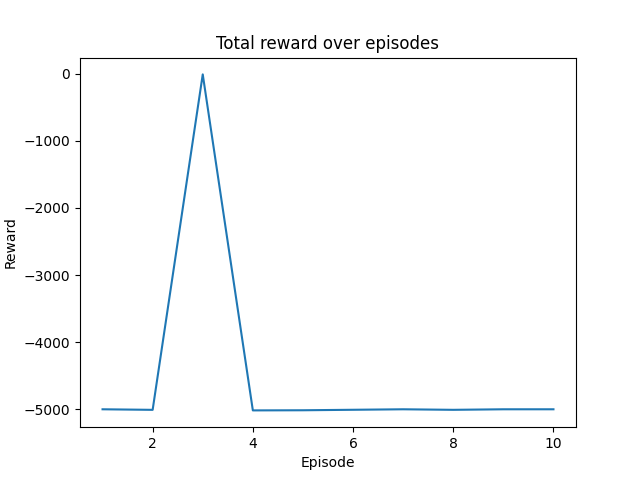
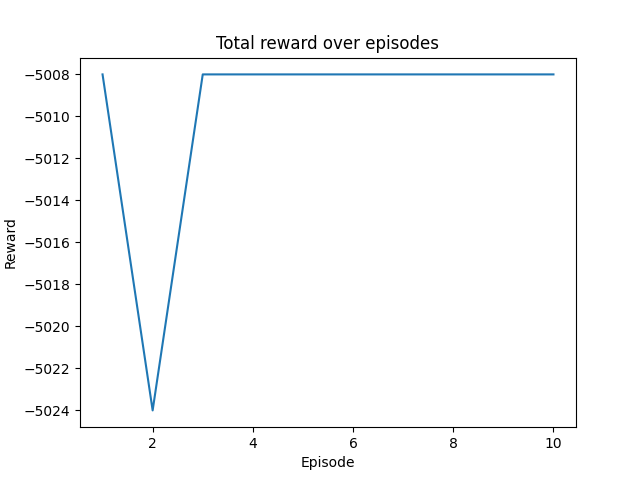
Start on DQN

diff --git a/main.py b/main.py
@@ -20,7 +20,7 @@ def run_episode(episode_num:int,environment:CTP_environment.CTP,subkey:jax.rando
         key,subkey=jax.random.split(subkey)
         #Loop over agents to get agents' actions and combine together into a joint action
         # Use observation to get the action
-        action = agent.act(state,observation,subkey)
+        action = agent.act(subkey,state,observation)
         observation, state, current_reward, terminate = environment.step(state,jnp.array(action))
         cumulative_reward += current_reward
         # Assign observation and position to each agent
@@ -31,14 +31,7 @@ def run_episode(episode_num:int,environment:CTP_environment.CTP,subkey:jax.rando
     initial_loop_vars = (observation,state,terminate,cumulative_reward, action_sequence,subkey)
     def run_step(loop_vars):
         observation, state, terminate, cumulative_reward, action_sequence, subkey = loop_vars
-        key,subkey=jax.random.split(subkey)
-        #Loop over agents to get agents' actions and combine together into a joint action
-        # Use observation to get the action
-        action = environment.action_spaces.sample(subkey)
-        observation, state, current_reward, terminate = environment.step(state,jnp.array(action))
-        cumulative_reward += current_reward
-        # Assign observation and position to each agent
-        action_sequence = jnp.concatenate([action_sequence, jnp.array(action)])
+        #...the rest of the code in the while loop
         return observation, state, terminate, cumulative_reward, action_sequence, subkey
 
     def condition(loop_vars):
@@ -59,7 +52,7 @@ if __name__ == "__main__":
     parser.add_argument('--n_node', type=int, help='Number of nodes in the graph', required=False, default=5)
     parser.add_argument('--n_agent', type=int, help='Number of agents in the environment', required=False, default=1)
     parser.add_argument('--n_episode', type=int, help='Number of episodes to run', required=False, default=10)
-    parser.add_argument('--agent_algorithm',type=str,help='Random, DQN',required=False,default='Random')
+    parser.add_argument('--agent_algorithm',type=str,help='Random, DQN',required=False,default='DQN')
     args = parser.parse_args()
 
     key = jax.random.PRNGKey(40)
@@ -74,7 +67,7 @@ if __name__ == "__main__":
     if args.agent_algorithm == "Random":
         agent = random_agent.RandomAgent(environment.action_spaces)
     elif args.agent_algorithm == "DQN":
-        agent = dqn.DQN_Agent(environment.action_spaces)
+        agent = dqn.DQN_Agent(environment.action_spaces.num_categories[0])
     else:
         raise ValueError("Invalid agent algorithm")
 

diff --git a/dqn.py b/dqn.py
@@ -2,20 +2,39 @@ import agent
 import jax 
 import jax.numpy as jnp
 import jaxmarl
+from jaxmarl.environments import spaces
 import CTP_environment
+from functools import partial
+import optax
 
 class DQN_Agent(agent.Agent):
-    def __init__(self, action_space):
-        super().__init__(action_space)
+    def __init__(self, n_actions:int,discount_factor=0.99, learning_rate=0.1,epsilon=0.1):
+        self.discount_factor = discount_factor
+        self.learning_rate = learning_rate
+        self.epsilon = epsilon #epsilon-greedy policy - epsilon decreases over time
+        self.n_actions = n_actions
+
+        #data structure for replay buffer (use library)
+        #replay buffer contains tuples of (state, action, reward, next_state, terminate)
 
     def reset(self):
         # Reset network and hyperparameters
         pass
 
-    def act(self, state:CTP_environment.EnvState,observation:CTP_environment.Observation) -> int:
-        # Return the action to take
-        pass
-
+    @partial(jax.jit, static_argnums=(0,))
+    def act(self, key: jax.random.PRNGKey,state:CTP_environment.EnvState,observation:CTP_environment.Observation) -> int:
+        # Epsilon greedy policy
+        explore = jax.random.uniform(key) < self.epsilon
+        key, subkey = jax.random.split(key)
+        action = jax.lax.cond(explore,lambda subkey:jax.random.randint(subkey, shape=(1,), minval=0, maxval=self.n_actions).astype(jnp.int32),lambda _:self._forward_pass(state,observation),subkey)
+        return action
+    
+    def _forward_pass(self,state:CTP_environment.EnvState,observation:CTP_environment.Observation):
+        # Use online network to do action selection (max Q value)
+        #q_values = self.model.apply(online_net_params, None, state)
+        #return jnp.argmax(q_values)
+        return jnp.array([2])
+    
     def update(self,state:CTP_environment.EnvState,observation:CTP_environment.Observation,action:int,reward:float,next_state:CTP_environment.EnvState,next_observation:CTP_environment.Observation,terminate:bool):
         # Update the network
         pass

diff --git a/agent.py b/agent.py
@@ -1,19 +1,18 @@
 import jax
 import jax.numpy as jnp
 import CTP_environment
+from functools import partial
 
 class Agent:
-    def __init__(self, action_space,discount_factor=0.99, learning_rate=0.1,epsilon=0.1):
-        self.discount_factor = discount_factor
-        self.learning_rate = learning_rate
-        self.epsilon = epsilon #epsilon-greedy policy
-        self.action_space = action_space
+    def __init__(self):
+        pass
 
     def reset(self):
         # Reset network and hyperparameters
         pass
 
-    def act(self, state:CTP_environment.EnvState,observation:CTP_environment.Observation) -> int:
+    @partial(jax.jit, static_argnums=(0,))
+    def act(self, key:jax.random.PRNGKey,state:CTP_environment.EnvState,observation:CTP_environment.Observation) -> int:
         # Return the action to take
         pass
 

diff --git a/random_agent.py b/random_agent.py
@@ -2,11 +2,13 @@ import agent
 import jax 
 import jax.numpy as jnp
 import jaxmarl
+from functools import partial
 import CTP_environment
 
 class RandomAgent(agent.Agent):
     def __init__(self, action_space):
-        super().__init__(action_space)
+        self.action_space = action_space
     
-    def act(self, state:CTP_environment.EnvState,observation:CTP_environment.Observation, key: jax.random.PRNGKey) -> int:
+    @partial(jax.jit, static_argnums=(0,))
+    def act(self, key: jax.random.PRNGKey,state:CTP_environment.EnvState,observation:CTP_environment.Observation) -> int:
         return self.action_space.sample(key)

diff --git a/models.py b/models.py
@@ -1,0 +1,17 @@
+import jax
+import jax.numpy as jnp
+import flax
+import flax.linen as nn
+
+# Fully connected MLP
+class QNetwork(nn.Module):
+    action_dim: int
+    hidden_size: int = 64
+
+    @nn.compact
+    def __call__(self, x: jnp.ndarray):
+        x = nn.Dense(self.hidden_size)(x)
+        x = nn.relu(x)
+        x = nn.Dense(self.action_dim)(x)
+        x = nn.relu(x)
+        return x
